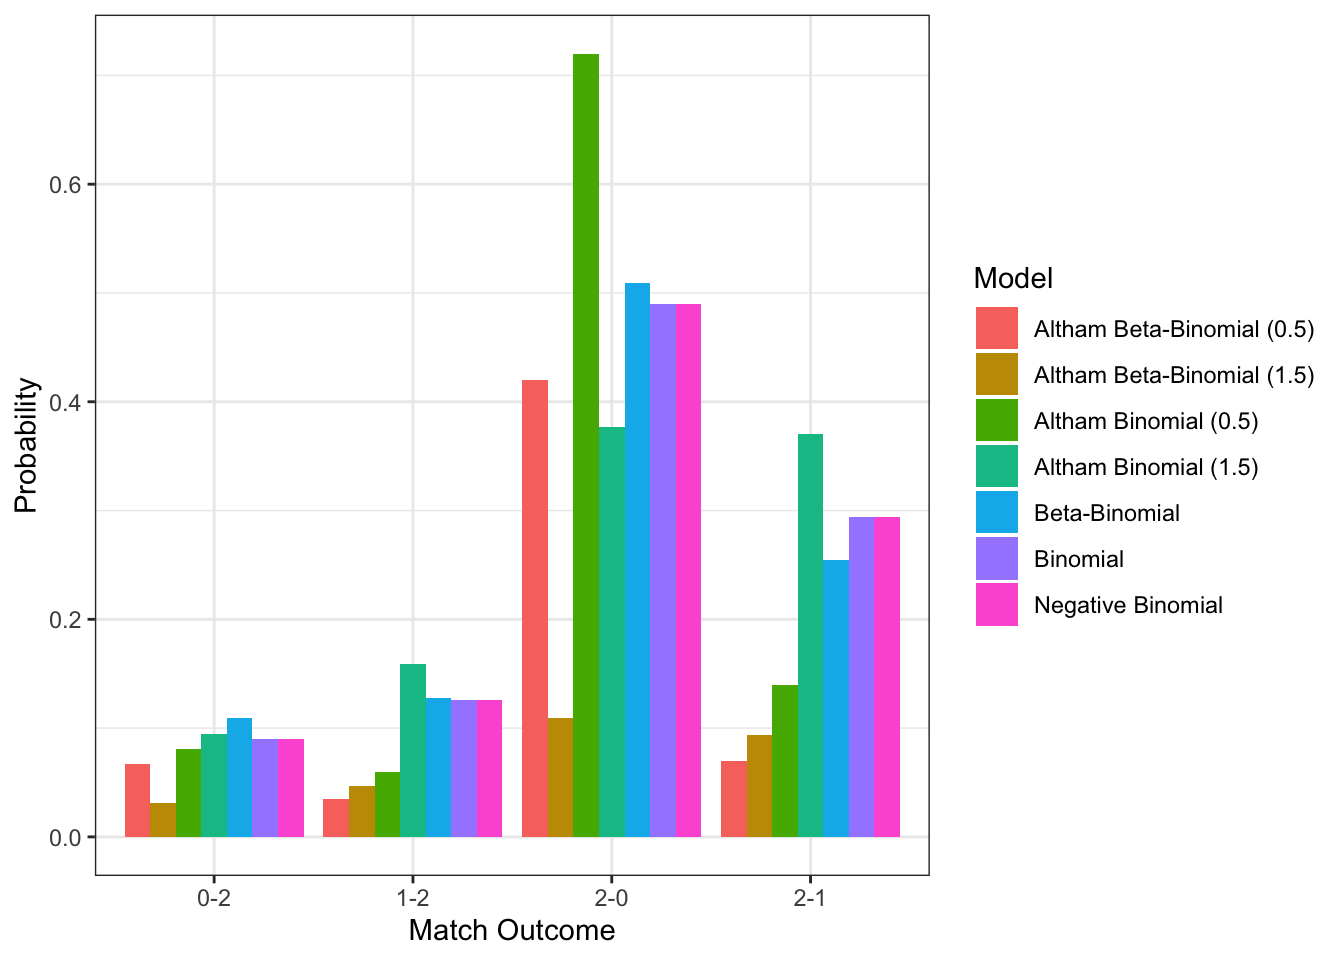
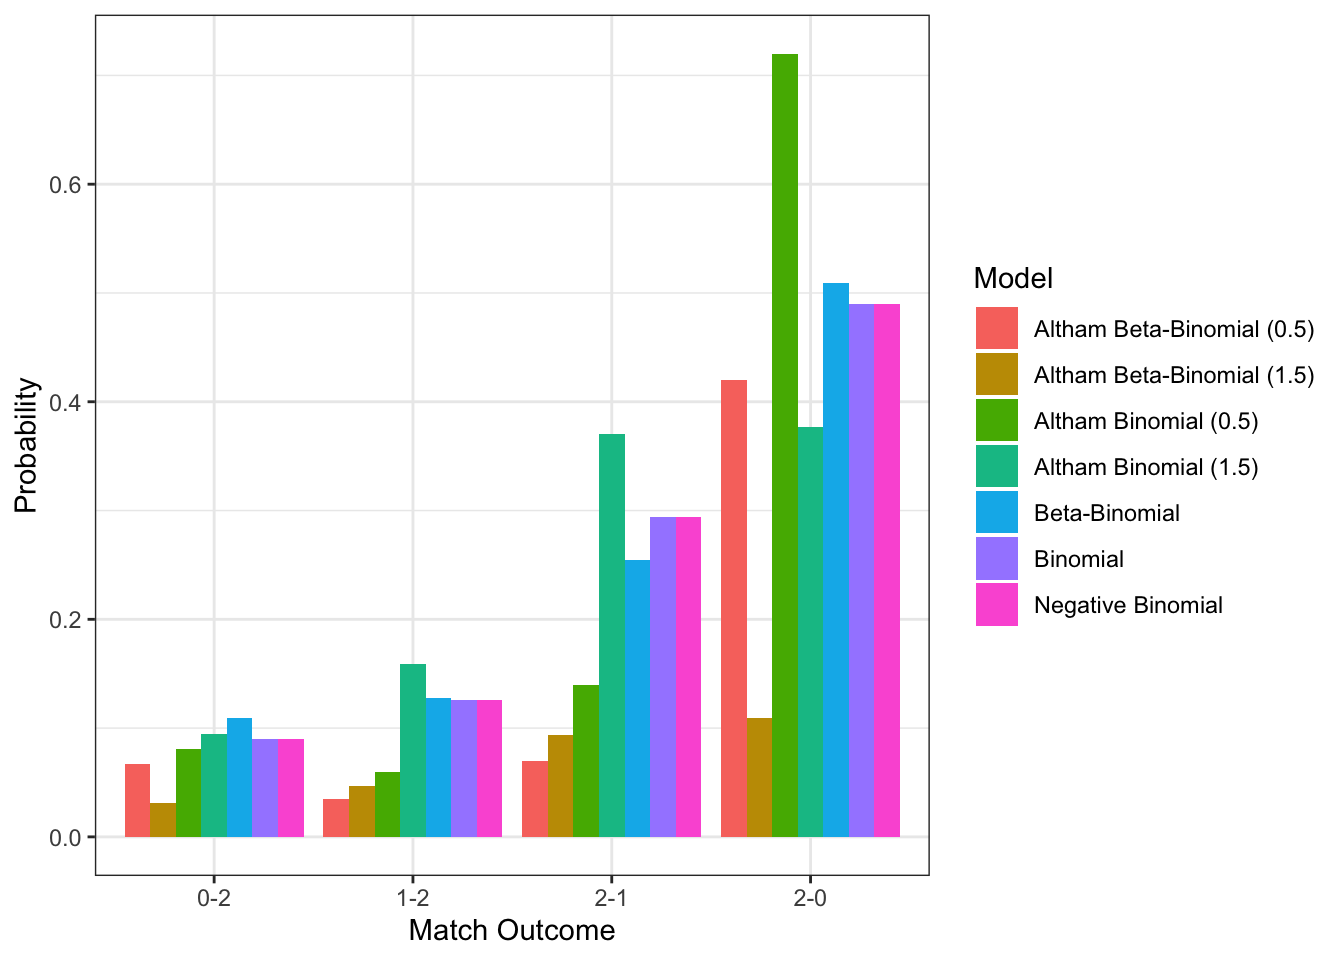
fixing lab 8 (order of final plot)

Changed region(s): [[0.375, 0.0312, 0.6875, 0.8125]]

diff --git a/docs/Lab8/Lab8WriteUp.html b/docs/Lab8/Lab8WriteUp.html
@@ -1225,15 +1225,15 @@ Figure&nbsp;10: PMF of Altham’s multiplicative Beta-Binomial distribution for 
 <span id="cb51-9"><a href="#cb51-9"></a></span>
 <span id="cb51-10"><a href="#cb51-10"></a></span>
 <span id="cb51-11"><a href="#cb51-11"></a><span class="co"># Plots</span></span>
-<span id="cb51-12"><a href="#cb51-12"></a>df.long <span class="ot">=</span> <span class="fu">tibble</span>(</span>
-<span id="cb51-13"><a href="#cb51-13"></a>  <span class="at">outcome =</span> <span class="fu">rep</span>(<span class="fu">c</span>(<span class="st">"0-2"</span>, <span class="st">"1-2"</span>, <span class="st">"2-0"</span>, <span class="st">"2-1"</span>), <span class="dv">7</span>),</span>
-<span id="cb51-14"><a href="#cb51-14"></a>  <span class="at">prob =</span> <span class="fu">c</span>(binom1, binom2, binom3, binom4,</span>
-<span id="cb51-15"><a href="#cb51-15"></a>           negBinom1, negBinom2, negBinom3, negBinom4,</span>
-<span id="cb51-16"><a href="#cb51-16"></a>           betaBinom1, betaBinom2, betaBinom3, betaBinom4,</span>
-<span id="cb51-17"><a href="#cb51-17"></a>           altBinom1<span class="fl">.05</span>, altBinom2<span class="fl">.05</span>, altBinom3<span class="fl">.05</span>, altBinom4<span class="fl">.05</span>,</span>
-<span id="cb51-18"><a href="#cb51-18"></a>           altBinom1<span class="fl">.15</span>, altBinom2<span class="fl">.15</span>, altBinom3<span class="fl">.15</span>, altBinom4<span class="fl">.15</span>,</span>
-<span id="cb51-19"><a href="#cb51-19"></a>           altBBinom1<span class="fl">.05</span>, altBBinom2<span class="fl">.05</span>, altBBinom3<span class="fl">.05</span>, altBBinom4<span class="fl">.05</span>,</span>
-<span id="cb51-20"><a href="#cb51-20"></a>           altBBinom1<span class="fl">.15</span>, altBBinom2<span class="fl">.15</span>, altBBinom3<span class="fl">.15</span>, altBBinom4<span class="fl">.15</span>),</span>
+<span id="cb51-12"><a href="#cb51-12"></a>df <span class="ot">=</span> <span class="fu">tibble</span>(</span>
+<span id="cb51-13"><a href="#cb51-13"></a>  <span class="at">outcome =</span> <span class="fu">rep</span>(<span class="fu">c</span>(<span class="st">"0-2"</span>, <span class="st">"1-2"</span>, <span class="st">"2-1"</span>, <span class="st">"2-0"</span>), <span class="dv">7</span>),</span>
+<span id="cb51-14"><a href="#cb51-14"></a>  <span class="at">prob =</span> <span class="fu">c</span>(binom1, binom2, binom4, binom3,</span>
+<span id="cb51-15"><a href="#cb51-15"></a>           negBinom1, negBinom2, negBinom4, negBinom3,</span>
+<span id="cb51-16"><a href="#cb51-16"></a>           betaBinom1, betaBinom2, betaBinom4, betaBinom3,</span>
+<span id="cb51-17"><a href="#cb51-17"></a>           altBinom1<span class="fl">.05</span>, altBinom2<span class="fl">.05</span>, altBinom4<span class="fl">.05</span>, altBinom3<span class="fl">.05</span>,</span>
+<span id="cb51-18"><a href="#cb51-18"></a>           altBinom1<span class="fl">.15</span>, altBinom2<span class="fl">.15</span>, altBinom4<span class="fl">.15</span>, altBinom3<span class="fl">.15</span>,</span>
+<span id="cb51-19"><a href="#cb51-19"></a>           altBBinom1<span class="fl">.05</span>, altBBinom2<span class="fl">.05</span>, altBBinom4<span class="fl">.05</span>, altBBinom3<span class="fl">.05</span>,</span>
+<span id="cb51-20"><a href="#cb51-20"></a>           altBBinom1<span class="fl">.15</span>, altBBinom2<span class="fl">.15</span>, altBBinom4<span class="fl">.15</span>, altBBinom3<span class="fl">.15</span>),</span>
 <span id="cb51-21"><a href="#cb51-21"></a>  <span class="at">model =</span> <span class="fu">rep</span>(<span class="fu">c</span>(<span class="st">"Binomial"</span>,</span>
 <span id="cb51-22"><a href="#cb51-22"></a>                <span class="st">"Negative Binomial"</span>,</span>
 <span id="cb51-23"><a href="#cb51-23"></a>                <span class="st">"Beta-Binomial"</span>,</span>
@@ -1244,20 +1244,23 @@ Figure&nbsp;10: PMF of Altham’s multiplicative Beta-Binomial distribution for 
 <span id="cb51-28"><a href="#cb51-28"></a>              <span class="at">each =</span> <span class="dv">4</span>)</span>
 <span id="cb51-29"><a href="#cb51-29"></a>)</span>
 <span id="cb51-30"><a href="#cb51-30"></a></span>
-<span id="cb51-31"><a href="#cb51-31"></a><span class="co"># graphs</span></span>
-<span id="cb51-32"><a href="#cb51-32"></a><span class="co">#| label: fig-outcome-comparison</span></span>
-<span id="cb51-33"><a href="#cb51-33"></a><span class="co">#| fig-cap: "Comparison of match outcome probabilities across models."</span></span>
-<span id="cb51-34"><a href="#cb51-34"></a><span class="co">#| fig-align: center</span></span>
-<span id="cb51-35"><a href="#cb51-35"></a></span>
-<span id="cb51-36"><a href="#cb51-36"></a>df.long <span class="sc">|&gt;</span></span>
-<span id="cb51-37"><a href="#cb51-37"></a>  <span class="fu">ggplot</span>(<span class="fu">aes</span>(<span class="at">x =</span> outcome, <span class="at">y =</span> prob, <span class="at">fill =</span> model)) <span class="sc">+</span></span>
-<span id="cb51-38"><a href="#cb51-38"></a>  <span class="fu">geom_col</span>(<span class="at">position =</span> <span class="st">"dodge"</span>) <span class="sc">+</span></span>
-<span id="cb51-39"><a href="#cb51-39"></a>  <span class="fu">theme_bw</span>() <span class="sc">+</span></span>
-<span id="cb51-40"><a href="#cb51-40"></a>  <span class="fu">labs</span>(</span>
-<span id="cb51-41"><a href="#cb51-41"></a>    <span class="at">x =</span> <span class="st">"Match Outcome"</span>,</span>
-<span id="cb51-42"><a href="#cb51-42"></a>    <span class="at">y =</span> <span class="st">"Probability"</span>,</span>
-<span id="cb51-43"><a href="#cb51-43"></a>    <span class="at">fill =</span> <span class="st">"Model"</span></span>
-<span id="cb51-44"><a href="#cb51-44"></a>  )</span></code></pre></div><button title="Copy to Clipboard" class="code-copy-button"><i class="bi"></i></button></div>
+<span id="cb51-31"><a href="#cb51-31"></a>df <span class="ot">=</span> df <span class="sc">|&gt;</span></span>
+<span id="cb51-32"><a href="#cb51-32"></a>  <span class="fu">mutate</span>(<span class="at">outcome =</span> <span class="fu">factor</span>(outcome, <span class="at">levels =</span> <span class="fu">c</span>(<span class="st">"0-2"</span>, <span class="st">"1-2"</span>, <span class="st">"2-1"</span>, <span class="st">"2-0"</span>)))</span>
+<span id="cb51-33"><a href="#cb51-33"></a></span>
+<span id="cb51-34"><a href="#cb51-34"></a><span class="co"># graphs</span></span>
+<span id="cb51-35"><a href="#cb51-35"></a><span class="co">#| label: fig-outcome-comparison</span></span>
+<span id="cb51-36"><a href="#cb51-36"></a><span class="co">#| fig-cap: "Comparison of match outcome probabilities across models."</span></span>
+<span id="cb51-37"><a href="#cb51-37"></a><span class="co">#| fig-align: center</span></span>
+<span id="cb51-38"><a href="#cb51-38"></a></span>
+<span id="cb51-39"><a href="#cb51-39"></a>df <span class="sc">|&gt;</span></span>
+<span id="cb51-40"><a href="#cb51-40"></a>  <span class="fu">ggplot</span>(<span class="fu">aes</span>(<span class="at">x =</span> outcome, <span class="at">y =</span> prob, <span class="at">fill =</span> model)) <span class="sc">+</span></span>
+<span id="cb51-41"><a href="#cb51-41"></a>  <span class="fu">geom_col</span>(<span class="at">position =</span> <span class="st">"dodge"</span>) <span class="sc">+</span></span>
+<span id="cb51-42"><a href="#cb51-42"></a>  <span class="fu">theme_bw</span>() <span class="sc">+</span></span>
+<span id="cb51-43"><a href="#cb51-43"></a>  <span class="fu">labs</span>(</span>
+<span id="cb51-44"><a href="#cb51-44"></a>    <span class="at">x =</span> <span class="st">"Match Outcome"</span>,</span>
+<span id="cb51-45"><a href="#cb51-45"></a>    <span class="at">y =</span> <span class="st">"Probability"</span>,</span>
+<span id="cb51-46"><a href="#cb51-46"></a>    <span class="at">fill =</span> <span class="st">"Model"</span></span>
+<span id="cb51-47"><a href="#cb51-47"></a>  )</span></code></pre></div><button title="Copy to Clipboard" class="code-copy-button"><i class="bi"></i></button></div>
 </details>
 <div class="cell-output-display">
 <div>
